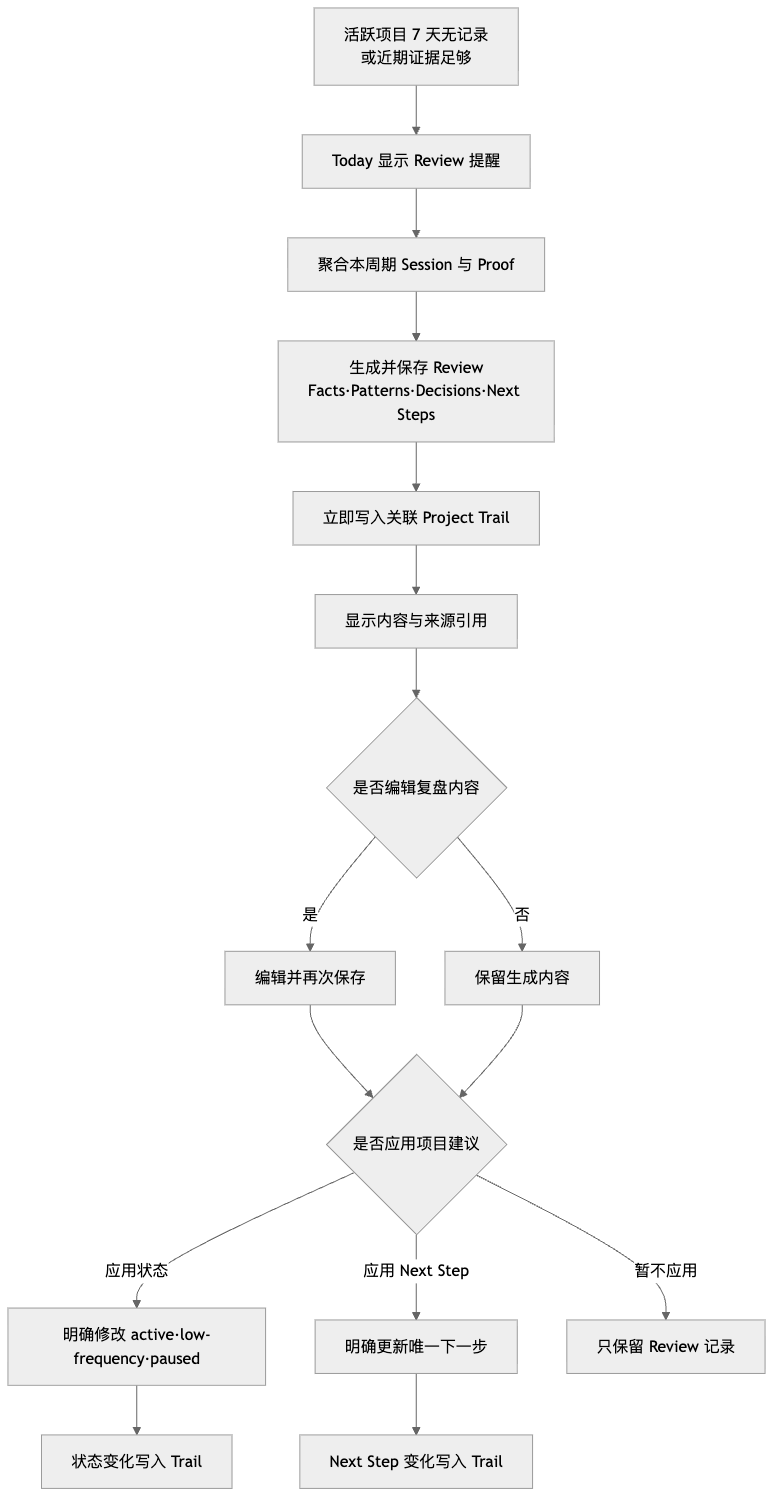
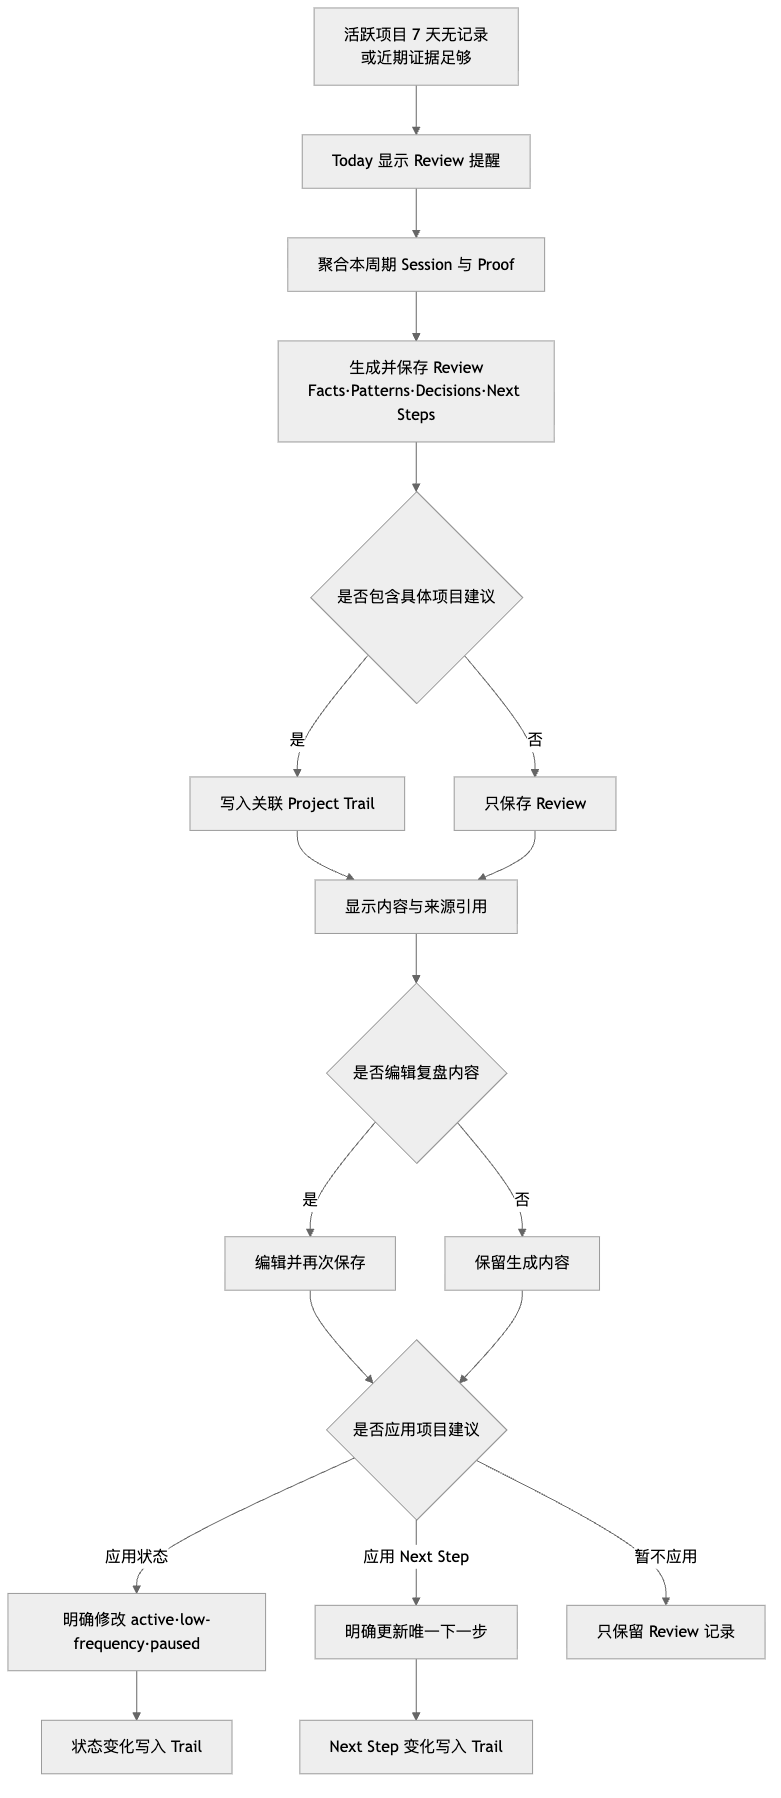
docs: harden diagram accuracy and rendering

diff --git a/docs/superpowers/plans/2026-07-12-product-function-diagrams.md b/docs/superpowers/plans/2026-07-12-product-function-diagrams.md
@@ -118,12 +118,14 @@ flowchart TD
   subgraph CORE[应用协调与规则]
     VM[界面状态协调]
     J[项目·Session·Proof·Trail 规则]
+    STORE[Journal Store]
     RV[复盘生成与显式应用]
     A[附件管理]
     E[完整 Bundle 导出]
   end
   subgraph DATA[本地数据与外部边界]
-    DB[(SwiftData 本地库)]
+    DB[(SwiftData 正常存储)]
+    JSON[(JSON Store 降级)]
     FILES[(本地附件)]
     PREFS[(偏好设置与 Keychain)]
     EXPORTS[(Exports 目录)]
@@ -137,13 +139,14 @@ flowchart TD
   VM --> J
   VM --> RV
   VM --> A
-  VM --> E
-  J --> DB
+  VM -->|传入当前 Snapshot| E
+  J --> STORE
+  STORE --> DB
+  STORE -.初始化失败时.-> JSON
   RV --> J
   RV --> PREFS
   RV -.配置完整时.-> AI
   A --> FILES
-  E --> DB
   E --> FILES
   E --> EXPORTS
 ```
@@ -199,10 +202,10 @@ git commit -m "docs: add product overview diagram sources"
 flowchart TD
   A[首次打开 App] --> B[填写 1–3 个当前学习项目]
   B --> C{每个项目是否完整}
-  C -->|否| D[提示补充名称·领域·目标·Next Step]
+  C -->|否| D[提示补充名称·目标·Next Step]
   D --> B
   C -->|是| E[一次性创建全部项目]
-  E --> F[选择第一个项目]
+  E --> F[自动使用第一个项目]
   F --> G[记录第一条 Quick Log Session]
   G --> H{Session 保存成功}
   H -->|否| G
@@ -293,17 +296,22 @@ git commit -m "docs: add onboarding session and proof flows"
 flowchart TD
   A[活跃项目 7 天无记录\n或近期证据足够] --> B[Today 显示 Review 提醒]
   B --> C[聚合本周期 Session 与 Proof]
-  C --> D[生成 Facts·Patterns·Decisions·Next Steps]
-  D --> E[显示来源引用]
-  E --> F[用户编辑复盘内容]
-  F --> G[保存 Review]
-  G --> H{是否应用项目建议}
-  H -->|应用状态| I[明确修改 active·low-frequency·paused]
-  H -->|应用 Next Step| J[明确更新唯一下一步]
-  H -->|暂不应用| K[只保留 Review 记录]
-  I --> L[写入 Project Trail]
-  J --> L
+  C --> D[生成并保存 Review\nFacts·Patterns·Decisions·Next Steps]
+  D --> E{是否包含具体项目建议}
+  E -->|是| F[写入关联 Project Trail]
+  E -->|否| G[只保存 Review]
+  F --> H[显示内容与来源引用]
+  G --> H
+  H --> I{是否编辑复盘内容}
+  I -->|是| J[编辑并再次保存]
+  I -->|否| K[保留生成内容]
+  J --> L{是否应用项目建议}
   K --> L
+  L -->|应用状态| M[明确修改 active·low-frequency·paused]
+  L -->|应用 Next Step| N[明确更新唯一下一步]
+  L -->|暂不应用| O[只保留 Review 记录]
+  M --> P[状态变化写入 Trail]
+  N --> Q[Next Step 变化写入 Trail]
 ```
 
 - [ ] **Step 2: Create the AI fallback flow**
@@ -326,17 +334,14 @@ flowchart TD
 
 ```mermaid
 flowchart TD
-  A[进入 Library Export] --> B{选择导出方式}
-  B -->|仅结构化数据| C[生成带版本号的 journal.json]
-  B -->|仅学习附件| D[按 Project·Session·Proof 复制附件]
-  B -->|完整备份| E[创建 Export Bundle]
-  E --> C
-  E --> D
-  C --> F[写入本地 Exports 目录]
-  D --> F
-  F --> G{导出是否成功}
-  G -->|否| H[显示错误并保留原始数据]
-  G -->|是| I[通过系统分享或文件管理取用]
+  A[在 Library 点击 Export] --> B[创建带时间戳的完整 Export Bundle]
+  B --> C[生成带版本号的 journal.json]
+  B --> D[按 Project·Session·Proof 复制附件]
+  C --> E[写入 Documents／LearningJournal／Exports]
+  D --> E
+  E --> F{导出是否成功}
+  F -->|否| G[显示 Export Failed\n保留原始数据]
+  F -->|是| H[显示 Export Ready\n告知本地保存路径和附件数量]
 ```
 
 - [ ] **Step 4: Validate explicit user control and fallback coverage**
@@ -346,7 +351,7 @@ Run:
 ```bash
 rg -n "用户|明确|暂不应用" diagrams/product-review-flow.mmd
 rg -n "本地规则复盘|请求与 JSON 解析是否成功" diagrams/product-ai-fallback-flow.mmd
-rg -n "journal.json|附件|完整备份|错误" diagrams/product-export-flow.mmd
+rg -n "journal.json|附件|完整 Export Bundle|Export Failed|Export Ready" diagrams/product-export-flow.mmd
 ```
 
 Expected: every command finds all listed terms.
@@ -388,13 +393,17 @@ if [ -z "${PUPPETEER_EXECUTABLE_PATH:-}" ] && \
   export PUPPETEER_EXECUTABLE_PATH="/Applications/Google Chrome.app/Contents/MacOS/Google Chrome"
 fi
 
+render_dir="$(mktemp -d "$ROOT/diagrams/.product-render.XXXXXX")"
+trap 'rm -rf "$render_dir"' EXIT HUP INT TERM
+
 render_format() {
   format="$1"
   for source in "$ROOT"/diagrams/product-*.mmd; do
     base="${source%.mmd}"
+    name="$(basename "$base")"
     "$PNPM_BIN" dlx "$MERMAID_CLI_PACKAGE" \
       --input "$source" \
-      --output "${base}.${format}" \
+      --output "$render_dir/${name}.${format}" \
       --theme neutral \
       --backgroundColor white \
       --width 1800
@@ -405,8 +414,24 @@ render_format svg &
 svg_pid=$!
 render_format png &
 png_pid=$!
-wait "$svg_pid"
-wait "$png_pid"
+if wait "$svg_pid"; then svg_status=0; else svg_status=$?; fi
+if wait "$png_pid"; then png_status=0; else png_status=$?; fi
+if [ "$svg_status" -ne 0 ] || [ "$png_status" -ne 0 ]; then exit 1; fi
+
+source_count=0
+for source in "$ROOT"/diagrams/product-*.mmd; do
+  name="$(basename "${source%.mmd}")"
+  source_count=$((source_count + 1))
+  test -s "$render_dir/${name}.svg"
+  test -s "$render_dir/${name}.png"
+  file "$render_dir/${name}.svg" | grep -q "SVG"
+  file "$render_dir/${name}.png" | grep -q "PNG"
+done
+test "$source_count" -eq 10
+
+for output in "$render_dir"/product-*.svg "$render_dir"/product-*.png; do
+  mv -f "$output" "$ROOT/diagrams/$(basename "$output")"
+done
 ```
 
 - [ ] **Step 2: Make the script executable and run it**